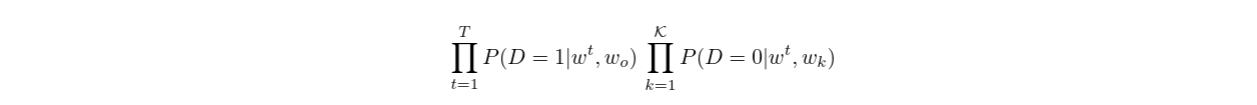
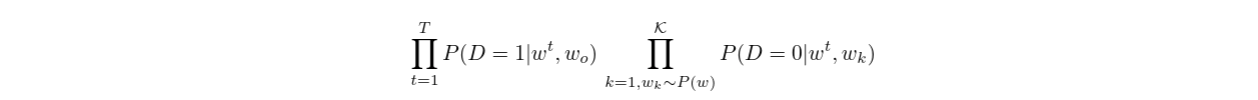
update

diff --git a/pre/embedded.md b/pre/embedded.md
@@ -118,3 +118,7 @@ NS其实是符合直觉的，一开始是遍历整个词表，那么有没有可
 
 ![](https://github.com/sherlcok314159/ML/blob/main/pre/Images/ns_joint.png)
 
+正负样本符合伯努利分布，即两个相加为1，改写并取对数，极大似然概率如下：
+
+![](https://github.com/sherlcok314159/ML/blob/main/pre/Images/ns_last.png)
+
